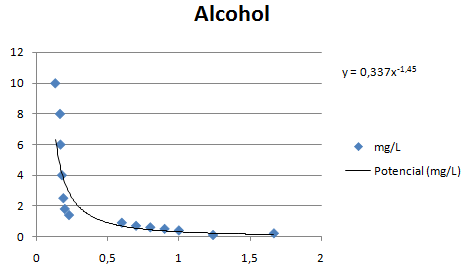
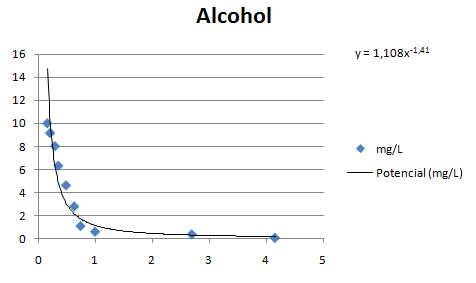
Alcohol fórmula reajustada

diff --git a/calculos/CALCULOS.md b/calculos/CALCULOS.md
@@ -11,30 +11,27 @@ Estos son los calculos que se utilizan en el sketch para convertir los valores a
 
 Rs/Ro | mg/L
 ------------ | -------------
-0.1333 | 10
-0.16666 | 8
-0.17 | 6
-0.18 | 4
-0.19 | 2.5
-0.2 | 1.8
-0.23 | 1.4
-0.6 | 0.9
-0.7 | 0.7
-0.8 | 0.6
-0.9 | 0.5
-1 | 0,4
-1.66666 | 0.21
-1.24 | 0.1
+0,16 | 10
+0,209 | 9,156
+0,294 | 8,03
+0,355 | 6,343
+0,489 | 4,656
+0,635 | 2,828
+0,744 | 1,14
+1 | 0,648
+2,7 | 0,416
+4,162 | 0,114
+
 
 **Ecuación potencial**
 
 - Expresión:
 ```
-y = 0,337x-1,45 
+y = 1,108x-1,41  
 ```
 - Código:
 ```arduino
-double Alcohol = 0.337*pow(mq3_resistencia/5463, -1.45);
+double Alcohol = 1,108*pow(mq3_resistencia/5463, -1,41);
 ```
 
 
